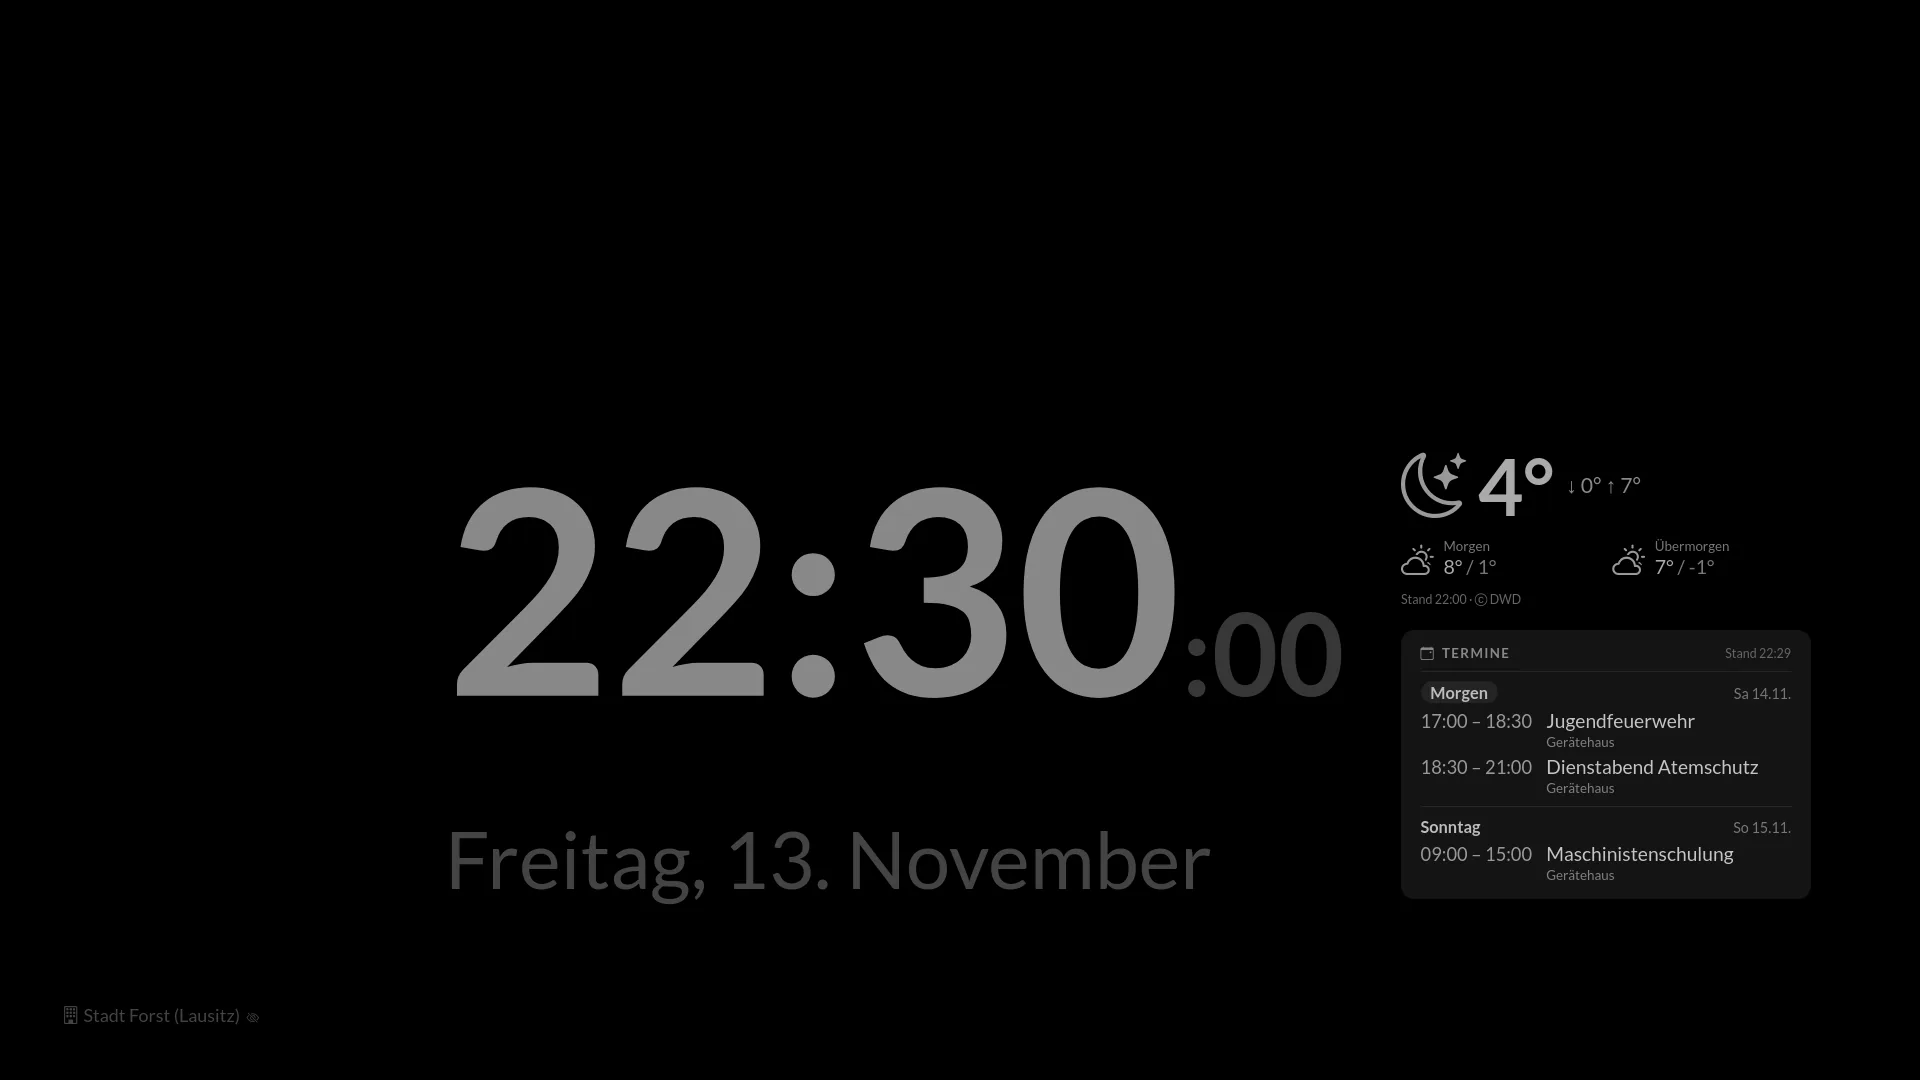
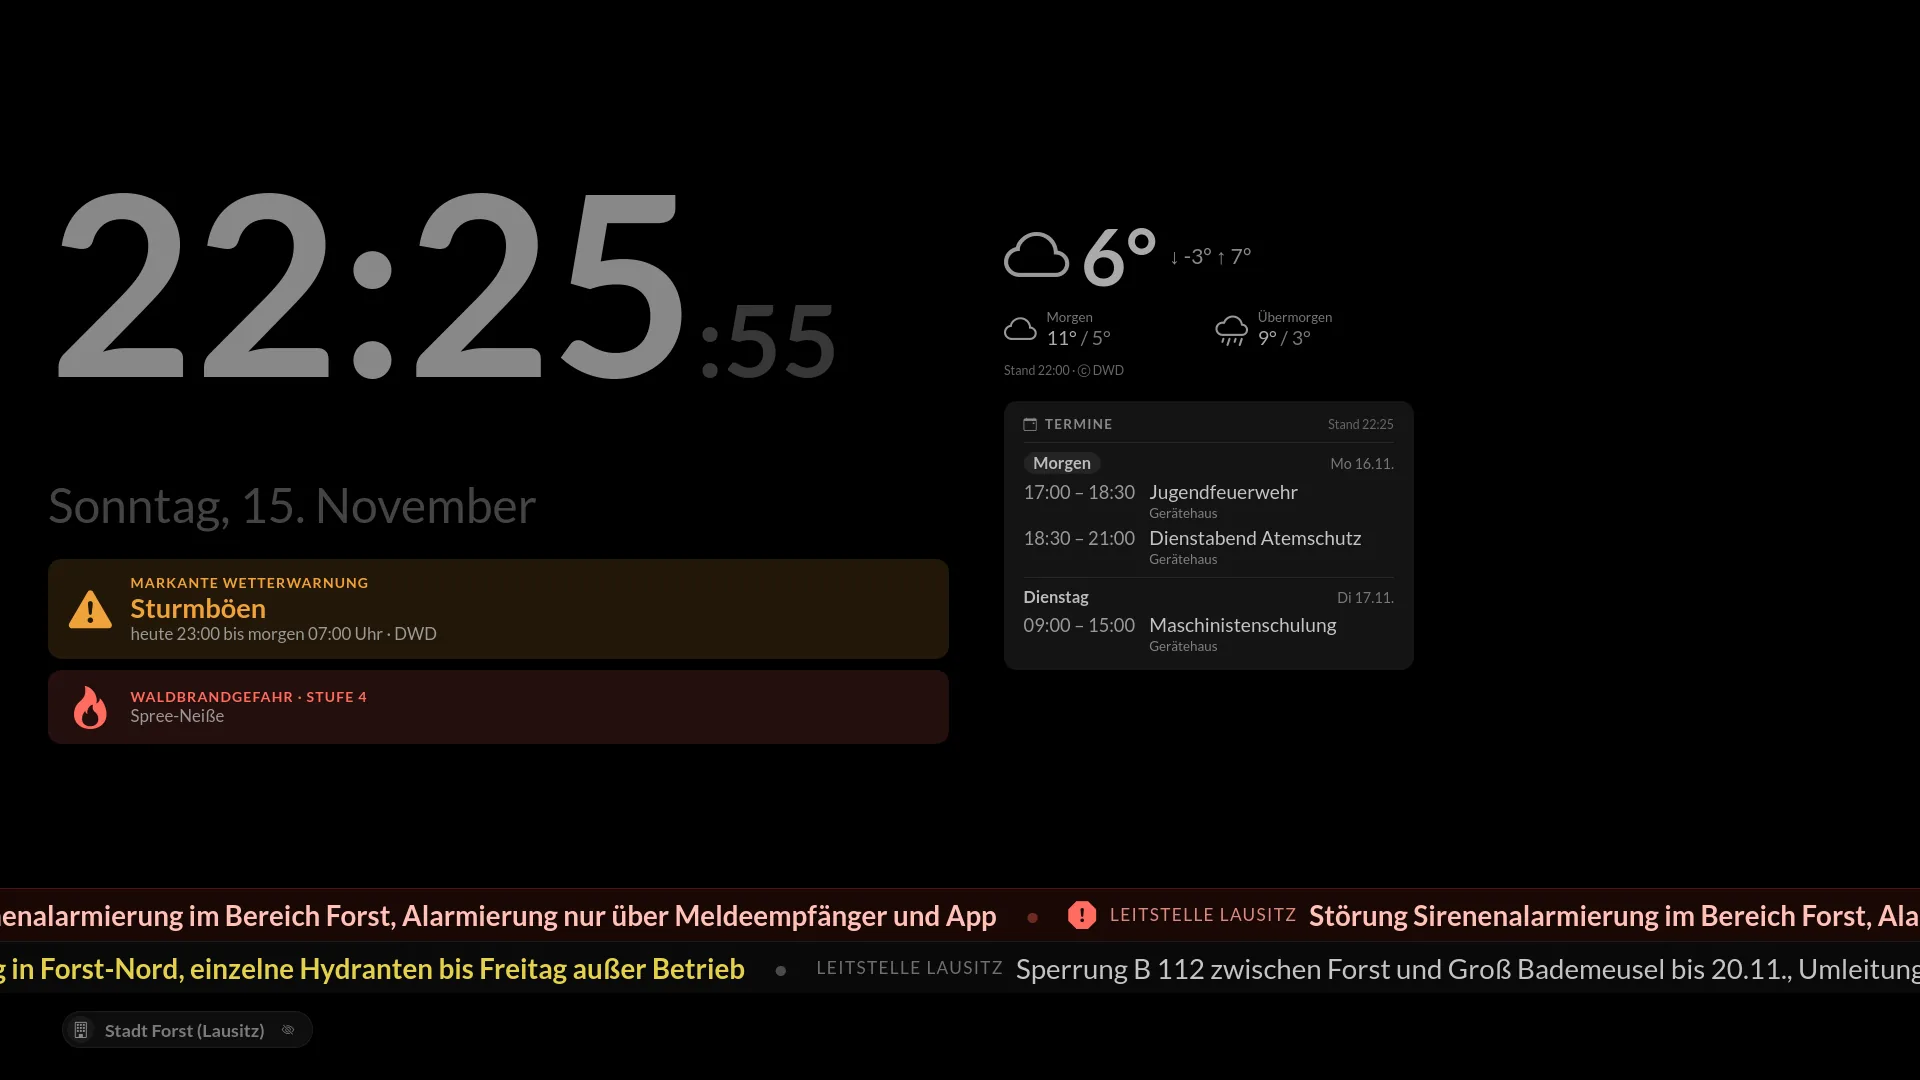
README: Versionsverlauf, Geplantes, Ticker und neue Abbildungen
- Versionsverlauf von 2.0.x bis 2.2.1 mit Hinweisen zum Update
- Abschnitt "Geplant" (mehrere Wachen je Monitor, mehrere Einsätze je Wache)
- Standby-Ticker, Kalender-Dienst und Ticker-Stufen beschrieben
- neue Abbildungen: Standby mit Warnung, Waldbrandgefahr und Ticker,
  Startseite, Einstellungen, Benutzerverwaltung (fiktive Daten)

diff --git a/README.md b/README.md
@@ -97,20 +97,20 @@ Die nachfolgend aufgeführten Funktionen stehen im **`Wachalarm IP-Web`** genere
 
 ## Standby-Anzeige
 
-![Standby-Anzeige mit Wetter und Terminen](docs/images/waip_standby.webp)
+![Standby-Anzeige mit Wetter, Terminen und Ticker](docs/images/waip_standby.webp)
 
-*Abbildung: Standby-Anzeige mit Wetter und Terminen*
+*Abbildung: Standby-Anzeige mit Wetter, Unwetterwarnung, Waldbrandgefahr, Terminen und Ticker (fiktive Meldungen)*
 
 - ist kein Einsatz aktiv, zeigt der Alarmmonitor Uhrzeit und Datum an
 - auf Wunsch werden zusätzlich angezeigt:
     - das aktuelle Wetter sowie die Vorhersage für morgen und übermorgen
     - amtliche Unwetterwarnungen des Deutschen Wetterdienstes
     - die Waldbrandgefahrenstufe (ab einer einstellbaren Stufe)
-    - die nächsten Termine aus einem öffentlichen Kalender (iCal/ICS), z.B. Dienstabende
-    - ein Ticker mit aktuellen Meldungen am unteren Rand, wichtige Meldungen in einer eigenen roten Zeile (nur angemeldete Monitore)
+    - die nächsten Termine aus einem Kalender (iCal/ICS), z.B. Dienstabende
+    - ein Ticker mit aktuellen Meldungen am unteren Rand, wichtige Meldungen in einer eigenen roten Zeile (nur angemeldete Monitore, nie im Einsatz)
 - alle Daten holt ausschließlich der Server, die Alarmmonitore selbst benötigen keinen Zugriff auf das Internet
 - die Wetterdaten stammen vom Deutschen Wetterdienst und werden über einen selbst betriebenen [Bright Sky](https://brightsky.dev/)-Dienst abgerufen
-- Termine und Ticker-Meldungen holt ein eigener Kalender-Dienst (Docker) aus SOGo, Nextcloud o.ä. (`WIDGET_KALENDER_URL`); die Meldungen werden im Kalender gepflegt: jeder laufende Termin ist eine Meldung, die Priorität „hoch“ oder Schlagwörter wie „dringend“ machen sie rot
+- Termine und Ticker-Meldungen holt ein eigener Kalender-Dienst (Docker) aus SOGo, Nextcloud o.ä. (`WIDGET_KALENDER_URL`); die Meldungen werden im Kalender gepflegt: jeder laufende Termin ist eine Meldung, die Priorität „hoch“, `!!` vor dem Titel oder Schlagwörter wie „dringend“ machen sie rot, Priorität „normal“, `!` oder „wichtig“ gelb
 - der Ticker eines Monitors zeigt die Meldungen seiner Leitstelle und seines Kreises (Administration › Ticker-Quellen) sowie den eigenen Ticker-Kalender des Benutzers
 - angemeldete Benutzer schalten Wetter und Kalender unter `Einstellungen` ein und tragen dort ihren Ticker-Kalender ein, für Monitore ohne Anmeldung gibt es den Parameter `wetter=on`
 - der gesamte Inhalt wandert regelmäßig ein Stück über den Bildschirm, der Ticker läuft ständig und wechselt leicht die Höhe, damit sich nichts in das Display einbrennt
@@ -235,6 +235,7 @@ Die nachfolgend aufgeführten Funktionen stehen im **`Wachalarm IP-Web`** genere
     - [OSRM](https://project-osrm.org/) für die Anfahrtswege
     - [Piper](https://github.com/rhasspy/piper) (Wyoming-Protokoll) für eine natürlichere Sprachansage
     - [Bright Sky](https://brightsky.dev/) für Wetter und Unwetterwarnungen
+    - ein eigener Kalender-Dienst (Docker) für Termine und Ticker im Standby
     - Filebeat und Elasticsearch für die Auswertung der Logs
     - [Keycloak](https://www.keycloak.org/) (oder ein anderer OpenID-Connect-Server) für die Anmeldung mit zentralen Benutzerkonten
 
@@ -263,6 +264,77 @@ Die nachfolgend aufgeführten Funktionen stehen im **`Wachalarm IP-Web`** genere
 ## Benutzerverwaltung
 
 ![Benutzerverwaltung](docs/images/adm_benutzer.webp)
+
+---
+
+# Versionsverlauf
+
+## 2.2.1 (November 2026)
+
+- **Standby-Ticker**: Laufschrift mit Meldungen der Leitstelle, des Landkreises und einem eigenen Ticker des Benutzers, wichtige Meldungen in einer eigenen roten Zeile (nur Standby, nur angemeldete Monitore)
+- **Kalender-Dienst** (eigener Docker): holt Termine und Ticker-Meldungen aus SOGo, Nextcloud o.ä., der Alarmserver selbst lädt keine Kalender mehr
+- neue Seite `Ticker-Quellen` für die Kalender der Leitstellen und Kreise
+- neue lokale Rolle **Datenpfleger**: pflegt Wachen, Wetter-Standorte, Ticker-Quellen sowie Ersetzungen und Aussprache, ohne Zugriff auf Benutzer, Einsätze, Clients und Logs
+- Stammdaten-Seiten (Wachen, Wetter-Standorte) ruhiger gestaltet: Tabelle zum Lesen, Bearbeiten im Dialog, Koordinaten per Karte setzen
+- **Anmeldung über Keycloak** (OpenID Connect): Client-Rolle regelt den Zugang, Wachen-Rechte aus einem Gruppen-Attribut, lokale Rollen und Zusatzrechte bleiben im Wachalarm, mehrere Server bzw. Realms möglich
+
+> Hinweis zum Update: `npm install` ausführen (neues Paket für Keycloak).
+
+## 2.2.0 (November 2026)
+
+- **neues Design** auf Basis von Bootstrap 5: neue Startseite, Login mit allen Anmeldewegen, ruhigere Seiten, Bootstrap Icons, Alarmmonitore auf der Startseite kompakt je Berechtigung
+- **Standby-Widgets**: Wetter und Vorhersage, amtliche Unwetterwarnungen (DWD über Bright Sky), Waldbrandgefahrenstufe und Termine aus einem Kalender, Parameter `wetter=on/off`
+- **Dashboard-Übersicht** aller laufenden Einsätze als Kacheln, Rettungsdienst standardmäßig ausgeblendet
+- Alarmmonitor deutlich flüssiger auf schwacher Hardware (z.B. Raspberry Pi), Parameter `anim=off`
+- Rückmeldungen übersichtlicher: Restzeit, Name und Funktionen im Balken, zu lange Texte als Ticker
+- Alarmmonitore werden nicht mehr alle ~90 Sekunden getrennt (Sitzungsablauf behoben)
+- **Kurz-Archiv** beendeter Brand- und Hilfeleistungseinsätze (3 Tage, grobe Angaben), mit Seiten, Suche und Datumssuche, alte Dashboard-Links führen ins Archiv
+- **Ersetzungen und Aussprache**: alle Ersetzungen auf einer Seite, Sprachansage direkt probehören
+- Karte: zuverlässiges Einpassen, neuer Zielmarker, Routen nur auf gemeinsamen Straßen versetzt, Darstellung auf 4K wie in Full-HD
+- Kartenbreite im Alarmmonitor pro Benutzer einstellbar, Ablauf-Timer passt sich der Balkenhöhe an
+- Einsatzmittel ohne Alarmierungszeit lösen keinen Alarm mehr aus (nur noch Information)
+- kein Cookie-Hinweis mehr auf Alarmmonitor und Dashboard (nur technisch notwendige Cookies)
+- Fehlerbehebungen in der Schnittstelle (`/api/get_token`, `/api/einsatzstatus`)
+- Absturzsicherheit verbessert, pm2 im Betrieb ohne Dateiüberwachung
+- neue README mit aktuellen Abbildungen
+
+> Hinweise zum Update: Node.js ab Version 24.5 erforderlich. Für die geänderte pm2-Konfiguration einmalig `pm2 delete n112_waip-web` und `pm2 start ecosystem.config.js`.
+
+## 2.1.3 (November 2026)
+
+- Sicherheitsupdates, u.a. Schutz der Formulare gegen fremde Anfragen (CSRF) und sichere Ausgabe von Client-Daten in der Administration
+- Prüfung auf Netzkopplung verbessert (Status `Teilweise`, Prüfung auch nach Wiederverbindung)
+- strukturiertes Protokoll (JSON/ECS) für Elasticsearch, siehe [elastic/README.md](elastic/README.md)
+
+## 2.1.2 (Juli/August 2026)
+
+- Prüfung, ob ein Alarmmonitor unzulässig mit dem Internet verbunden ist (Netzkopplung)
+- Routen mehrerer Wachen nebeneinander, Wache auf der Karte auch bei reduzierter Darstellung
+- erste Administration von Ersetzungen für die Sprachansage
+- Fehlerbehebung bei Nachalarmierungen (2.1.2b), Symbol in der Fußzeile, wenn nicht angemeldet
+
+## 2.1.0 und 2.1.1 (Juni/Juli 2026)
+
+- Einstellungen in der Datei `.env` statt `app_cfg.js`, Wachen-Vorlage als `sql_seed.sql`
+- Sprachansage mit [Piper](https://github.com/rhasspy/piper)
+- Anfahrtswege der Wachen auf der Karte ([OSRM](https://project-osrm.org/))
+- Einsätze werden nur gespeichert, wenn eine aktive Wache beteiligt ist
+- vollständige Einsatzdaten werden nicht mehr durch reduzierte überschrieben
+
+## 2.0.x (Juni 2025 bis Juni 2026)
+
+- 2.0: Neuauflage mit Rest-Api und Token-Absicherung (JWT), neue Datenbankanbindung
+- 2.0.3: Anmeldung per Client-Zertifikat (Geräteanmeldung, z.B. BOS-Pad)
+- 2.0.4 bis 2.0.6: Verbesserungen bei Ton, Karte (HD/4K), Ablaufzeit und Dashboard, Parameter `sound=off`, Wachenname im Titel
+- 2.0.7: verknüpfte (virtuelle) Wachen, Ersetzungen in der Sprachansage, Anzeige der aktuellen Einsätze und Wachen für Benutzer
+- 2.0.9 und 2.0.10: Aktiv-Schalter für Wachen, Beschreibung bei Benutzern, Überwachung per Check_MK, Sekunden in der Standby-Uhr, Leistungsverbesserungen
+
+---
+
+# Geplant
+
+- mehrere Wachen bzw. Aufgabenträger auf einem Alarmmonitor (`/waip/<nr1>,<nr2>`), mit Wechsel zwischen den Einsätzen
+- Wechsel zwischen mehreren gleichzeitigen Einsätzen einer Wache
 
 # Lizenz
 #### [\[Creative Commons Attribution Share Alike 4.0 International\]](https://github.com/Robert-112/n112_waip-web/blob/master/LICENSE.md)
